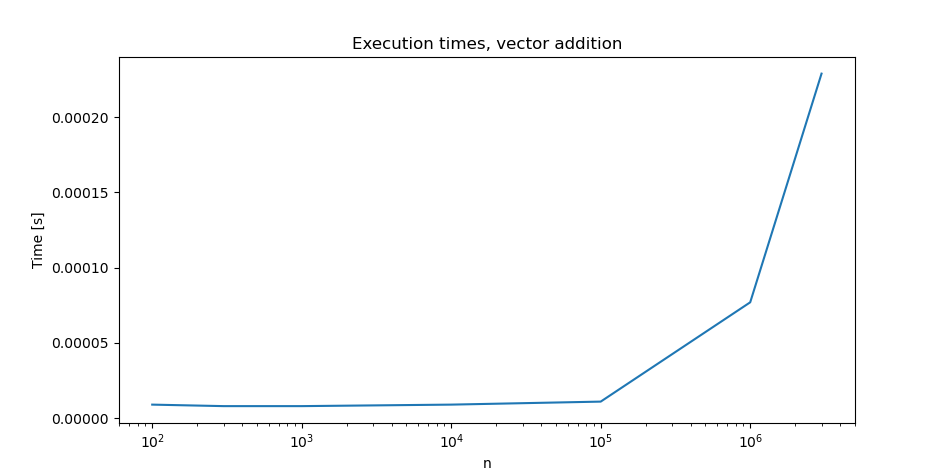
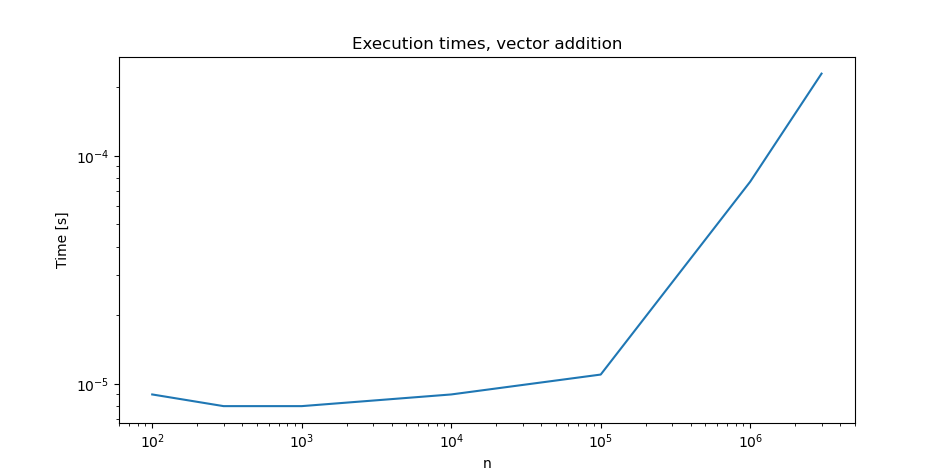
mc ex2

diff --git a/WS2023/Many-Core Architectures/e2/plot_2.py b/WS2023/Many-Core Architectures/e2/plot_2.py
@@ -2,13 +2,13 @@ import matplotlib.pyplot as plt
 import numpy as np
 
 n=[100, 300, 1000, 10000, 100000, 1000000, 3000000]
-a=[0.000007, 0.000006, 0.000007, 0.000010, 0.000049, 0.000533, 0.003983]
-b=[0.000014, 0.000013, 0.000016, 0.000044, 0.000332, 0.003330, 0.013234]
+a=[0.000016,0.000021,0.000021,0.000022,0.000024,0.000069,0.000171]
+b=[0.000021, 0.000020, 0.000020, 0.000022, 0.000053, 0.000107, 0.000198]
 
 plt.title("Comparison of dot products")
 plt.xlabel("n")
 plt.ylabel("Time [s]")
-plt.semilogx(n, a,label="2 kernels")
-plt.semilogx(n, b, label="1 kernel + CPU")
+plt.loglog(n, a,label="2 kernels")
+plt.loglog(n, b, label="1 kernel + CPU")
 plt.legend()
 plt.show()

diff --git a/WS2023/Many-Core Architectures/e2/plot_1cd.py b/WS2023/Many-Core Architectures/e2/plot_1cd.py
@@ -7,5 +7,5 @@ t=[0.000009,0.000008,0.000008,0.000009,0.000011,0.000077,0.000229]
 plt.title("Execution times, vector addition")
 plt.xlabel("n")
 plt.ylabel("Time [s]")
-plt.semilogx(n, t)
+plt.loglog(n, t)
 plt.show()
